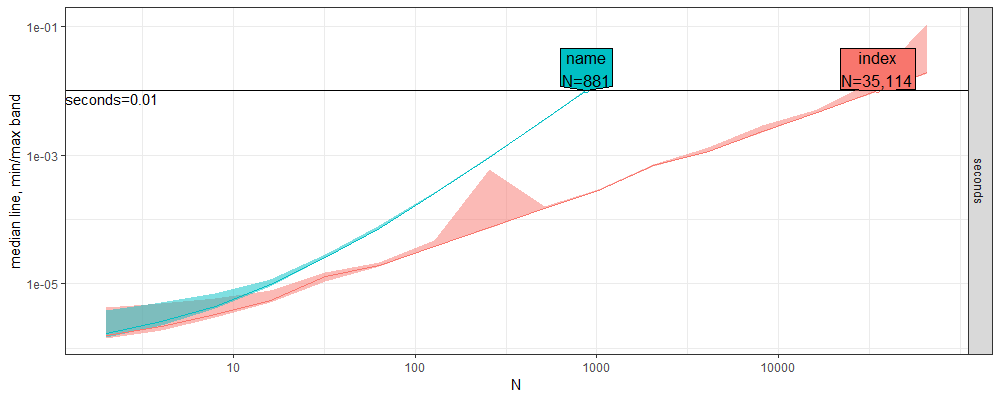
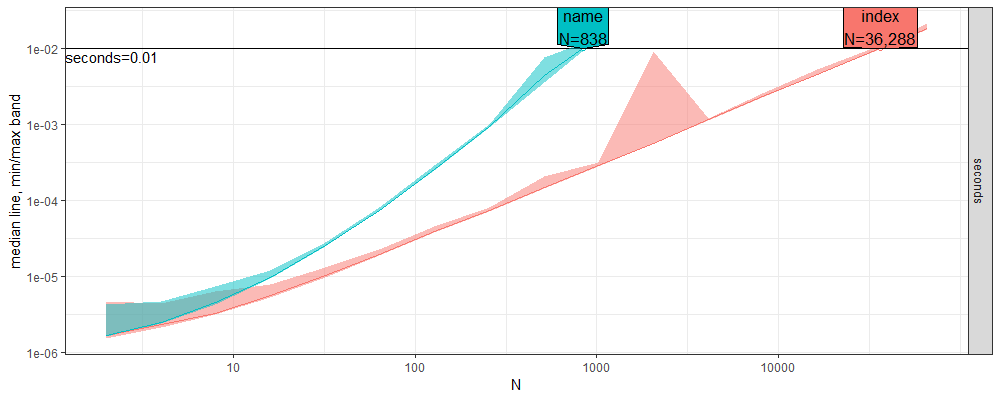
atime one

diff --git a/_posts/2025-10-01-name-number-indexing.md b/_posts/2025-10-01-name-number-indexing.md
@@ -1,7 +1,7 @@
 ---
 layout: post
-title: Named versus numbered indexing in R
-description: Exploring speed differences
+title: Speed of named versus numbered indexing in R
+description: Rotated Hi-C data visualization
 ---
 
 
@@ -335,6 +335,9 @@ for(element_name in names(list_of_dt)){
 ```
 
 The code above uses named lookup, which I suspect is responsible for the quadratic time complexity we observed.
+
+### Test for loop
+
 To test this hypothesis, we use the code below.
 
 
@@ -396,6 +399,43 @@ plot(apred)
 
 The figure above shows that the throughput of index-based lookup is about 50x larger than named-based lookup, for the default time limit of 0.01 seconds.
 In the real data, there are 100k groups or more, which can explain the slowdown with the previous quadratic time code.
+
+### Test without for loop
+
+We should be able to see differences without the for loop.
+A single list lookup should be
+
+* linear time with a name,
+* constant time with a number.
+
+The code below runs the corresponding test.
+
+
+``` r
+atime_one <- atime::atime(
+  setup={
+    N_vec <- structure(1:N, names=1:N)
+    N_chr <- as.character(N)
+  },
+  name_1=N_vec[["1"]],
+  name_N=N_vec[[N_chr]],
+  index_N=N_vec[[N]])
+plot(atime_one)
+```
+
+```
+## Warning in ggplot2::scale_y_log10("median line, min/max band"): log-10 transformation introduced infinite values.
+## log-10 transformation introduced infinite values.
+## log-10 transformation introduced infinite values.
+```
+
+![plot of chunk atime-one](/assets/img/2025-10-01-name-number-indexing/atime-one-1.png)
+
+The figure above shows time and memory usage as a function of `N`, the size of the vector.
+
+* `index_N`, index access of the last element, is constant time, `O(1)`.
+* `name_1`, name access of the first element, is constant time, `O(1)`.
+* `name_N`, name access of the last element, is linear time, `O(N)`.
 
 ## Conclusions
 
